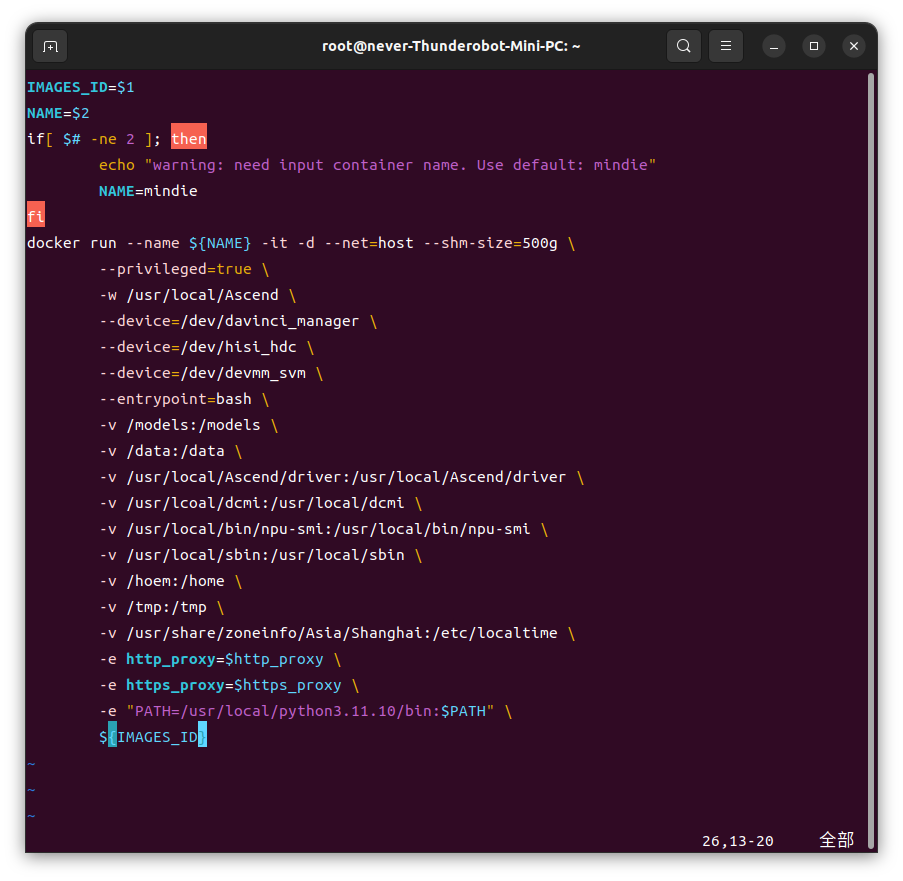
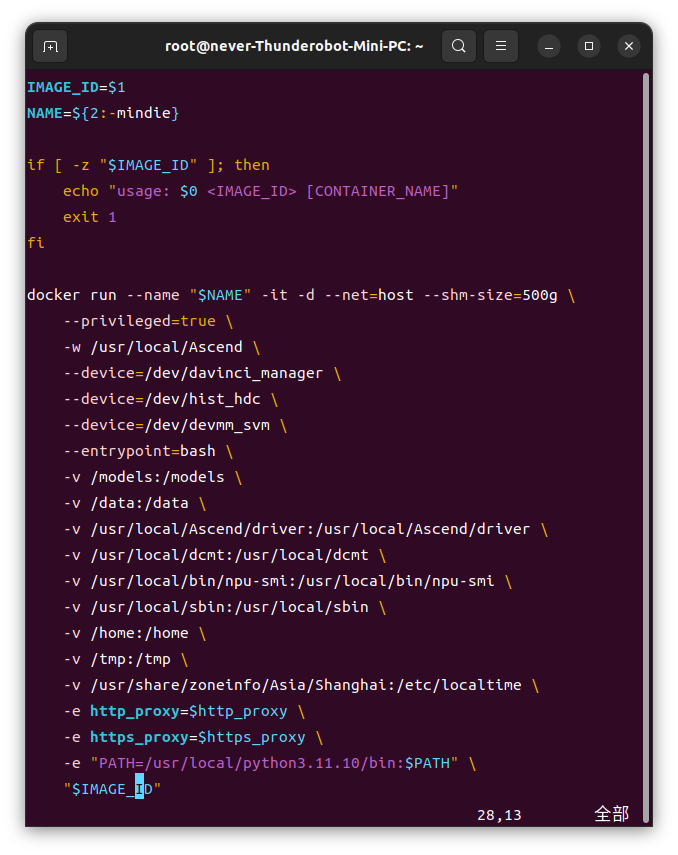
Fix--DarkMode

diff --git a/src/styles/markdown.css b/src/styles/markdown.css
@@ -6,20 +6,81 @@
   font-family: 'DM Mono', monospace;
   font-size: 1.2em;
   line-height: 1.4;
+  padding: 1rem;
+  border-radius: 8px;
+  border: 1px solid #e6e9ef;
 }
 
 .prose img {
   width: 100%;
 }
 
-.shiki,
-.shiki span {
-  color: var(--shiki-light);
-  background: var(--shiki-light-bg);
+/* 正文字色：亮/暗模式分别覆盖，保证暗色模式下可读 */
+.prose {
+  color: #374151; /* gray-700 */
 }
 
-html.dark .shiki,
+html.dark .prose {
+  color: #d1d5db; /* slightly off-white for readability */
+}
+
+/* Increase readable line length on desktop: widen prose container */
+@media (min-width: 1024px) {
+  .prose {
+    max-width: 1100px;
+  }
+}
+
+/* 代码块：外层负责背景，内层 token 只负责前景色（不携带背景），避免出现 token 方块 */
+.shiki {
+  background-color: #ffffff; /* light mode: white background */
+}
+
+.shiki span {
+  color: var(--shiki-light);
+  background-color: transparent;
+}
+
+html.dark .shiki {
+  background-color: var(--shiki-dark-bg);
+  border-color: #334155;
+}
+
 html.dark .shiki span {
   color: var(--shiki-dark);
-  background: var(--shiki-dark-bg);
+  background-color: transparent;
+}
+
+/* 暗色模式下：增强标题、引用、链接等的前景色，保证可读性 */
+html.dark .prose h1,
+html.dark .prose h2,
+html.dark .prose h3,
+html.dark .prose h4,
+html.dark .prose h5,
+html.dark .prose h6 {
+  color: #f8fafc; /* near-white for headings */
+}
+
+html.dark .prose a {
+  color: #93c5fd; /* sky-400 for links in dark */
+}
+
+html.dark .prose blockquote {
+  color: #d1d5db; /* lighter text for blockquote */
+  border-left-color: #334155;
+}
+
+html.dark .prose li {
+  color: #d1d5db;
+}
+
+html.dark .prose strong,
+html.dark .prose b {
+  color: #f8fafc;
+}
+
+/* inline code in dark mode: make it slightly lighter and keep transparent background */
+html.dark .prose code {
+  color: #f1f5f9;
+  background-color: transparent;
 }

diff --git a/src/pages/blog.vue b/src/pages/blog.vue
@@ -12,7 +12,7 @@ const posts = Object.entries(postModules).map(([path, mod]: any) => ({
 </script>
 
 <template>
-  <div class="max-w-2xl mx-auto px-6 py-16">
+  <div class="max-w-4xl mx-auto px-6 py-16">
     <h1 class="text-3xl font-bold mb-10">Blog</h1>
     <div v-if="posts.length === 0" class="text-gray-400">
       还没有文章，快去写第一篇吧！

diff --git a/src/pages/posts/2026-05-01-blog-opi-ai-studio-ubuntu.md b/src/pages/posts/2026-05-01-blog-opi-ai-studio-ubuntu.md
@@ -194,24 +194,36 @@ sudo -i
 ### 2) 拉取 MindIE 镜像
 
 ```bash
-docker pull --platform=amd64 \
-    swr.cn-south-1.myhuaweicloud.com/ascendhub/mindie:3.0.0b2-300l-Duo-py311-openeuler24.03-lts
-docker images
+docker pull --platform=amd64 swr.cn-south-1.myhuaweicloud.com/ascendhub/mindie:3.0.0-300I-Duo-py311-openeuler24.03-lts
 ```
 
-![MindIE 镜像下载入口示意](/images/opi-ai-studio-ubuntu/mindie-image-source.png)
+![MindIE 镜像下载入口示意1](/images/opi-ai-studio-ubuntu/mindie-image1.png)
+
+![MindIE 镜像下载入口示意2](/images/opi-ai-studio-ubuntu/mindie-image2.png)
+
+![MindIE 镜像下载入口示意3](/images/opi-ai-studio-ubuntu/mindie-image3.png)
+
+![MindIE 镜像下载入口示意4](/images/opi-ai-studio-ubuntu/mindie-image4.png)
 
 ![拉取 MindIE 镜像](/images/opi-ai-studio-ubuntu/pull-mindie-image.png)
+
+查看本地镜像列表：
+```bash
+docker images
+```
 
 ![查看本地镜像](/images/opi-ai-studio-ubuntu/docker-images-list.png)
 
 ### 3) 编写并执行容器启动脚本
 
-新建 `start_docker.sh`（图片中存在拼写与空格问题）：
+```bash
+vim start_docker.sh
+```
+
+新建 `start_docker.sh`：
+输入以下内容
 
 ```bash
-#!/usr/bin/env bash
-
 IMAGE_ID=$1
 NAME=${2:-mindie}
 
@@ -265,13 +277,21 @@ sudo apt install -y git-lfs
 
 ![安装 git-lfs](/images/opi-ai-studio-ubuntu/install-git-lfs.png)
 
+切换至/models目录：
+
+```bash
+cd /models
+```
+
 模型地址：<https://huggingface.co/deepseek-ai/DeepSeek-R1-Distill-Qwen-14B>
 
 国内网络建议使用镜像：
 
 ```bash
-git clone https://hf-mirror.com/deepseek-ai/DeepSeek-R1-Distill-Qwen-14B
+git clone --depth=1 https://modelers.cn/XLRJ/DeepSeek-R1-Distill-Qwen-14B
 ```
+
+![模型下载](/images/opi-ai-studio-ubuntu/model-download.png)
 
 下载过程较长，可在模型目录观察大小变化：
 
@@ -279,7 +299,15 @@ git clone https://hf-mirror.com/deepseek-ai/DeepSeek-R1-Distill-Qwen-14B
 du -sh
 ```
 
-![模型下载进度观察](/images/opi-ai-studio-ubuntu/model-download-progress.png)
+![模型下载进度观察](/images/opi-ai-studio-ubuntu/model-download-percentage.png)
+
+当然也可以通过watch命令持续监控：
+
+```bash
+watch -n 1 du -sh
+```
+
+![watch 监控模型下载](/images/opi-ai-studio-ubuntu/percentage-watch.png)
 
 ## 八、后续待实操（详细推进版，保留并扩充）
 
@@ -290,7 +318,7 @@ du -sh
 进入模型目录：
 
 ```bash
-cd DeepSeek-R1-Distill-Qwen-14B/
+cd /models/DeepSeek-R1-Distill-Qwen-14B/
 ```
 
 编辑配置文件：
@@ -299,7 +327,7 @@ cd DeepSeek-R1-Distill-Qwen-14B/
 vim config.json
 ```
 
-确认或修改为：
+确认或修改torch_dtype为：
 
 ```json
 "torch_dtype": "float16"
@@ -348,9 +376,7 @@ cd atb-models/
 执行推理命令：
 
 ```bash
-torchrun --nproc_per_node 1 --master_port 20037 -m examples.run_pa \
-    --model_path /models/DeepSeek-R1-Distill-Qwen-14B/ \
-    --max_output_length 256
+torchrun --nproc_per_node 1 --master_port 20037 -m examples.run_pa --model_path /models/DeepSeek-R1-Distill-Qwen-14B/ --max_output_length 256
 ```
 
 常见检查点：